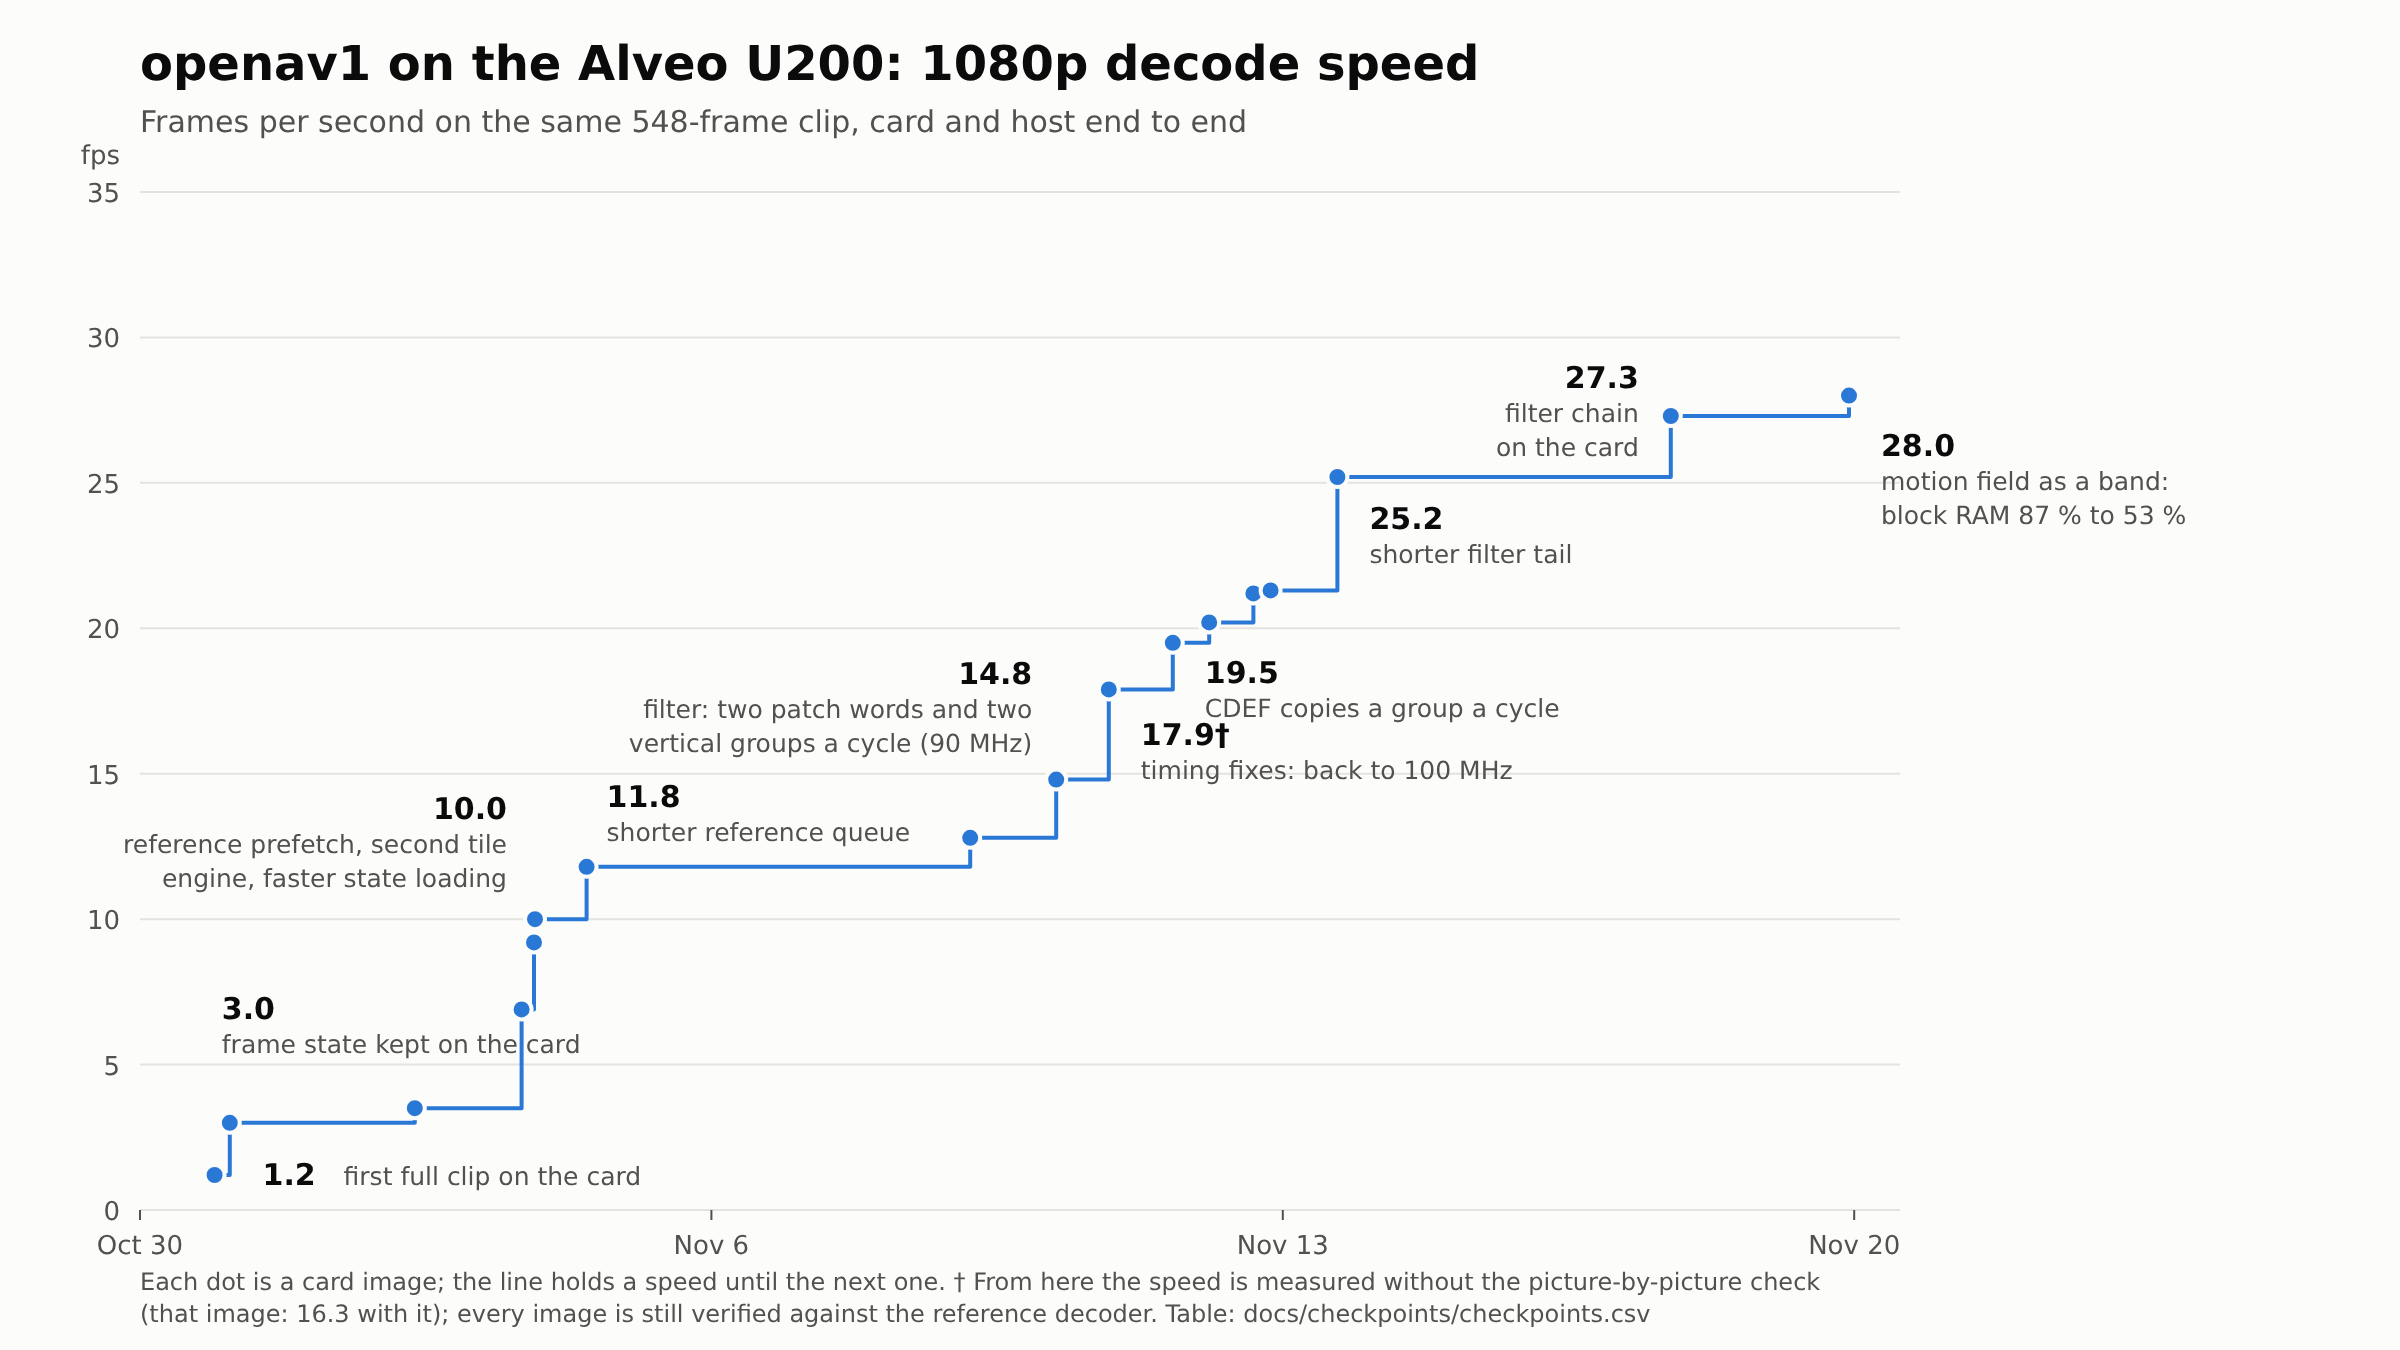
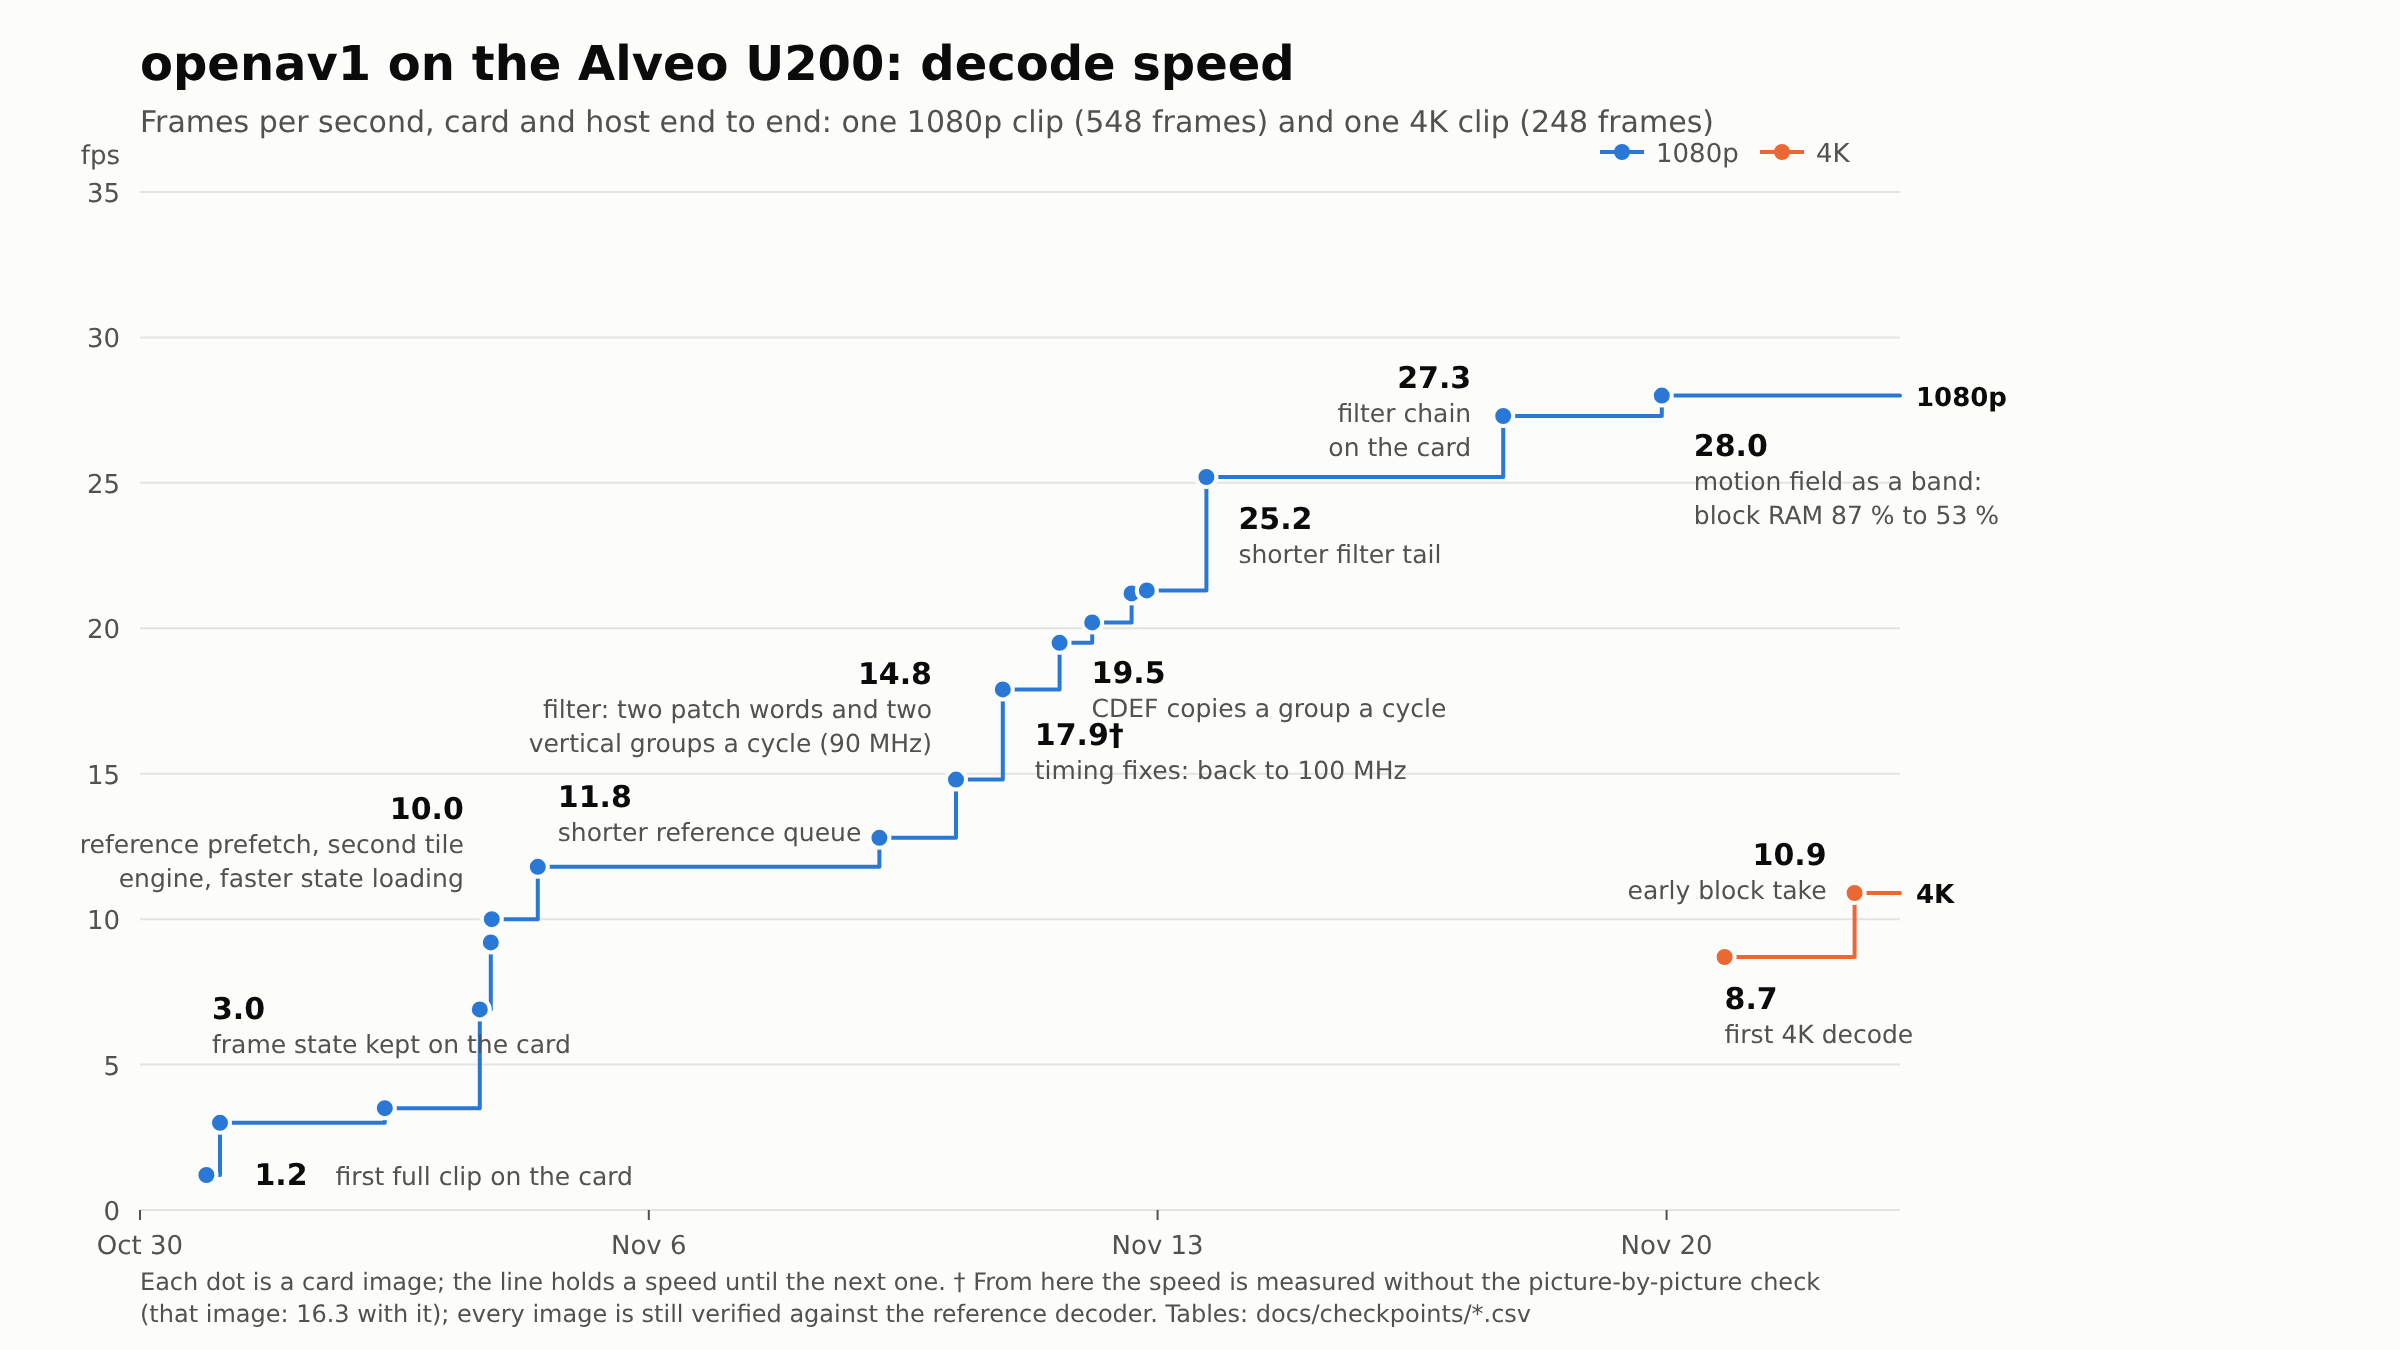
Checkpoints: a second line for the 4K clip (K01 8.7 fps, K02 10.9 fps)
The goal is 4K at 60 frames a second and the 1080p line cannot show progress there (the 4K images run at 80 MHz
and read lower on the 1080p clip than C17). docs/checkpoints/checkpoints_4k.csv holds the YouTube 2160p clip's
rows with the same columns; tools/checkpoints/chart.py draws it as a second step line on the same fps axis
(palette slot 2, validated with slot 1), both lines named at the right edge and in a legend. When the 4K line has
caught up, the chart goes back to one number (Jonah, 2026-11-22).

README: the status line reads C17's 28.0 fps (it still said 27.3); the picture's alt text names both clips.

diff --git a/tools/checkpoints/chart.py b/tools/checkpoints/chart.py
@@ -1,8 +1,10 @@
 #!/usr/bin/env python3
 """chart.py <docs/checkpoints dir>: the fps-over-time chart of the checkpoint table (checkpoints.csv -> fps.svg, and
-fps.png when a headless Chromium is on the PATH). One series, a step line: a speed holds until the next image.
+fps.png when a headless Chromium is on the PATH). A step line per clip: a speed holds until the next image. The 1080p
+clip is checkpoints.csv; the 4K clip (checkpoints_4k.csv, since 2026-11-22: the goal is 4K at 60 and the 1080p line
+cannot show progress there) is a second line on the same fps axis, until it catches up.
 The speed is the unchecked run (nothing compared) where the row has one, C10 on, and the checked run before that;
-the first unchecked point carries a dagger and the footnote says so. Standard library only. Colours: the dataviz reference palette, slot 1 on the light surface."""
+the first unchecked point carries a dagger and the footnote says so. Standard library only. Colours: the dataviz reference palette, slots 1 and 2 on the light surface (validated together: scripts/validate_palette.js)."""
 import csv, shutil, subprocess, sys
 from datetime import datetime as D, timedelta
 from pathlib import Path
@@ -11,20 +13,28 @@ d = Path(sys.argv[1])
 rows = list(csv.DictReader(open(d / "checkpoints.csv")))
 T = lambda s: D.strptime(s, "%Y-%m-%d %H:%M")
 pts = [(T(r["date_pt"]), float(r["fps_unchecked"] or r["fps_checked"]), r) for r in rows if r["fps_unchecked"] or r["fps_checked"]]
+f4 = d / "checkpoints_4k.csv"
+rows4 = list(csv.DictReader(open(f4))) if f4.exists() else []
+pts4 = [(T(r["date_pt"]), float(r["fps_unchecked"] or r["fps_checked"]), r) for r in rows4 if r["fps_unchecked"] or r["fps_checked"]]
 first_un = next((r["id"] for r in rows if r["fps_unchecked"]), None)     # the measurement changes here
 W, H = 1200, 675
 L, R, TOP, B = 70, 250, 96, 70
 t0 = D(pts[0][0].year, pts[0][0].month, pts[0][0].day)
-t1 = pts[-1][0] + timedelta(hours=15)
-top = max(v for _, v, _ in pts)
+t1 = max(p[0] for p in pts + pts4) + timedelta(hours=15)
+top = max(v for _, v, _ in pts + pts4)
 ymax = 5 * (int(top * 1.08) // 5 + 1)
 X = lambda t: L + (W - L - R) * (t - t0).total_seconds() / (t1 - t0).total_seconds()
 Y = lambda v: H - B - (H - TOP - B) * v / ymax
-ink, ink2, grid, blue, surf = "#0b0b0b", "#52514e", "#e4e3df", "#2a78d6", "#fcfcfb"
+ink, ink2, grid, blue, orange, surf = "#0b0b0b", "#52514e", "#e4e3df", "#2a78d6", "#eb6834", "#fcfcfb"
+series = [(pts, blue, "1080p")] + ([(pts4, orange, "4K")] if pts4 else [])
 o = [f'<svg xmlns="http://www.w3.org/2000/svg" width="{W}" height="{H}" viewBox="0 0 {W} {H}" font-family="DejaVu Sans, Liberation Sans, Arial, sans-serif">',
      f'<rect width="{W}" height="{H}" fill="{surf}"/>',
-     f'<text x="{L}" y="40" font-size="24" font-weight="700" fill="{ink}">openav1 on the Alveo U200: 1080p decode speed</text>',
-     f'<text x="{L}" y="66" font-size="15" fill="{ink2}">Frames per second on the same 548-frame clip, card and host end to end</text>']
+     f'<text x="{L}" y="40" font-size="24" font-weight="700" fill="{ink}">openav1 on the Alveo U200: decode speed</text>',
+     f'<text x="{L}" y="66" font-size="15" fill="{ink2}">Frames per second, card and host end to end: one 1080p clip (548 frames)' + (" and one 4K clip (248 frames)" if pts4 else "") + '</text>']
+for i, (_, col, name) in enumerate(series if pts4 else []):          # legend: two series are never told apart by colour alone
+    lx = W - R - 150 + 80 * i
+    o.append(f'<line x1="{lx}" x2="{lx + 22}" y1="{TOP - 20}" y2="{TOP - 20}" stroke="{col}" stroke-width="2"/><circle cx="{lx + 11}" cy="{TOP - 20}" r="4" fill="{col}"/>')
+    o.append(f'<text x="{lx + 28}" y="{TOP - 15}" font-size="13" fill="{ink2}">{name}</text>')
 for v in range(0, ymax + 1, 5):
     o.append(f'<line x1="{L}" x2="{W - R}" y1="{Y(v):.1f}" y2="{Y(v):.1f}" stroke="{grid}" stroke-width="1"/>')
     o.append(f'<text x="{L - 10}" y="{Y(v) + 5:.1f}" font-size="13" fill="{ink2}" text-anchor="end">{v}</text>')
@@ -35,13 +45,17 @@ for k in range(0, days, step):
     dt = t0 + timedelta(days=k)
     o.append(f'<line x1="{X(dt):.1f}" x2="{X(dt):.1f}" y1="{H - B}" y2="{H - B + 5}" stroke="{ink2}" stroke-width="1"/>')
     o.append(f'<text x="{X(dt):.1f}" y="{H - B + 22}" font-size="13" fill="{ink2}" text-anchor="middle">{dt.strftime("%b")} {dt.day}</text>')
-path = f"M{X(pts[0][0]):.1f},{Y(pts[0][1]):.1f}"
-for (ta, va, _), (tb, vb, _) in zip(pts, pts[1:]):
-    path += f" L{X(tb):.1f},{Y(va):.1f} L{X(tb):.1f},{Y(vb):.1f}"
-o.append(f'<path d="{path}" fill="none" stroke="{blue}" stroke-width="2" stroke-linejoin="round" stroke-linecap="round"/>')
-for t, v, r in pts:
-    o.append(f'<circle cx="{X(t):.1f}" cy="{Y(v):.1f}" r="5" fill="{blue}" stroke="{surf}" stroke-width="2"><title>{r["id"]} {r["date_pt"]}: {v} fps{" unchecked (" + r["fps_checked"] + " checked)" if r["fps_unchecked"] else " checked"}. {r["what_changed"]}</title></circle>')
-for t, v, r in pts:
+for sp, col, name in series:
+    path = f"M{X(sp[0][0]):.1f},{Y(sp[0][1]):.1f}"
+    for (ta, va, _), (tb, vb, _) in zip(sp, sp[1:]):
+        path += f" L{X(tb):.1f},{Y(va):.1f} L{X(tb):.1f},{Y(vb):.1f}"
+    if pts4:                                                 # both lines run to the right edge, where their names are
+        path += f" L{X(t1):.1f},{Y(sp[-1][1]):.1f}"
+        o.append(f'<text x="{X(t1) + 8:.1f}" y="{Y(sp[-1][1]) + 5:.1f}" font-size="13" font-weight="700" fill="{ink}">{name}</text>')
+    o.append(f'<path d="{path}" fill="none" stroke="{col}" stroke-width="2" stroke-linejoin="round" stroke-linecap="round"/>')
+    for t, v, r in sp:
+        o.append(f'<circle cx="{X(t):.1f}" cy="{Y(v):.1f}" r="5" fill="{col}" stroke="{surf}" stroke-width="2"><title>{r["id"]} {r["date_pt"]}: {v} fps{" unchecked (" + r["fps_checked"] + " checked)" if r["fps_unchecked"] else " checked"}. {r["what_changed"]}</title></circle>')
+for t, v, r in pts + pts4:
     if not r["label"]:
         continue
     dx, dy, anchor, text = r["label"].split(";", 3)
@@ -55,7 +69,7 @@ for t, v, r in pts:
         for i, l in enumerate(lines):
             o.append(f'<text x="{x:.1f}" y="{y + 17 * (i + 1):.1f}" font-size="12.5" fill="{ink2}" text-anchor="{anchor}">{l}</text>')
 o.append(f'<text x="{L}" y="{H - 30}" font-size="12" fill="{ink2}">Each dot is a card image; the line holds a speed until the next one. \u2020 From here the speed is measured without the picture-by-picture check</text>')
-o.append(f'<text x="{L}" y="{H - 14}" font-size="12" fill="{ink2}">(that image: {next((r["fps_checked"] for r in rows if r["id"] == first_un), "")} with it); every image is still verified against the reference decoder. Table: docs/checkpoints/checkpoints.csv</text>')
+o.append(f'<text x="{L}" y="{H - 14}" font-size="12" fill="{ink2}">(that image: {next((r["fps_checked"] for r in rows if r["id"] == first_un), "")} with it); every image is still verified against the reference decoder. Tables: docs/checkpoints/*.csv</text>')
 o.append("</svg>")
 (d / "fps.svg").write_text("\n".join(o))
 chrome = shutil.which("chromium") or shutil.which("chromium-browser") or shutil.which("google-chrome")
@@ -72,4 +86,4 @@ if chrome:
         raw.rename(d / "fps.png")
     for f in (html, raw):
         f.unlink(missing_ok=True)
-print(f"{len(pts)} checkpoints -> {d / 'fps.svg'}" + (f", {d / 'fps.png'}" if chrome else ""))
+print(f"{len(pts)} + {len(pts4)} checkpoints -> {d / 'fps.svg'}" + (f", {d / 'fps.png'}" if chrome else ""))

diff --git a/docs/checkpoints/README.md b/docs/checkpoints/README.md
@@ -15,6 +15,13 @@ A checkpoint is a card image that decodes the reference clip faster than the one
   2026-11-19 from the builds that were still on the build machine (C01 and C02 got their image, commit and usage
   figures then too, from the journal's record of which image each measurement ran on).
 
+**The 4K line** (`checkpoints_4k.csv`, rows K01 on, since 2026-11-22). The goal is 4K at 60 frames a second, and the
+1080p clip cannot show progress there: the 4K images run at 80 MHz and read lower on it than the last 1080p
+checkpoint. So the YouTube 2160p clip (`G6aI1-vYHxM`, 248 coded frames, 240 shown, four tile columns) has a table of
+its own with the same columns, measured the same way (unchecked for the speed, a checked pass for `identical`), and a
+second line in the chart on the same axis. A row is added when a kept image beats the last one on that clip. When the
+4K line has caught up with the 1080p one, the chart goes back to one number.
+
 `fps.png` plots the unchecked speed from C10 on and the checked speed before it (the dagger on C10 marks the change of
 measurement). It is drawn from the table: `python3 tools/checkpoints/chart.py docs/checkpoints` (SVG, and a PNG when a
 headless Chromium is found). The `label` column places the few annotations: `dx;dy;anchor;text` with `|` between lines.

diff --git a/README.md b/README.md
@@ -12,9 +12,9 @@ This project is built by AI, though a human is involved.
 # current status
 
 *Argon profile-0 passing*
-*1080p at 27.3 fps*
+*1080p at 28.0 fps*
 
-![1080p decode speed on the Alveo U200 over time](docs/checkpoints/fps.png)
+![Decode speed on the Alveo U200 over time: the 1080p clip and the 4K clip](docs/checkpoints/fps.png)
 
 Verified against test videos on an FPGA:
 
